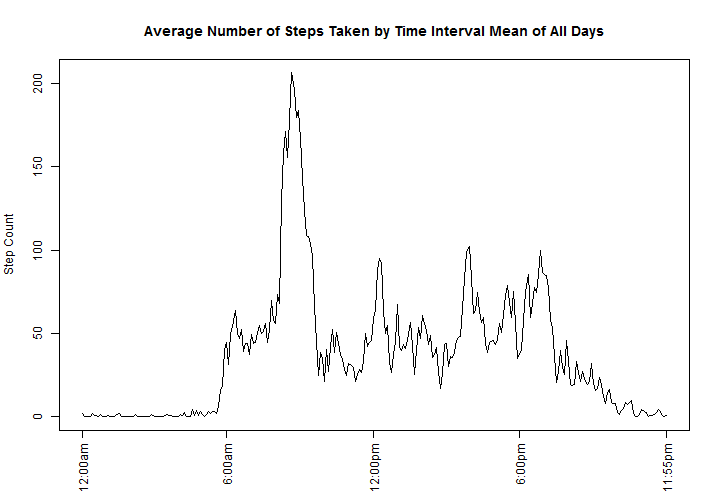
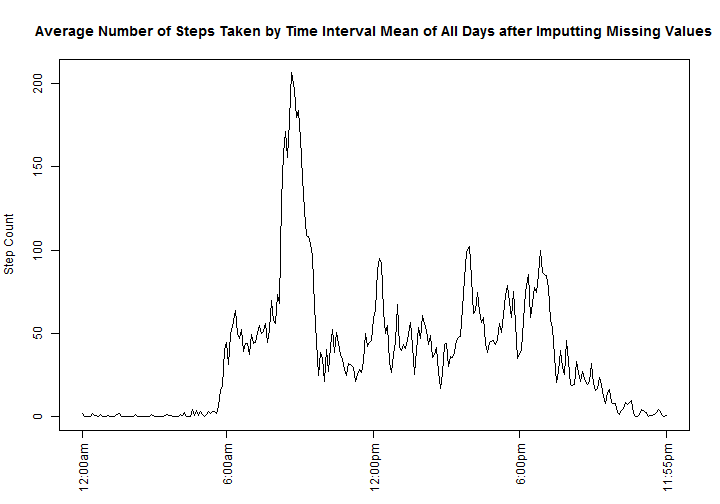
further final changes

Changed region(s): [[0.0306, 0.0298, 1.0, 0.0893]]

diff --git a/revisedfinal.html b/revisedfinal.html
@@ -219,7 +219,6 @@ ti_me&lt;-paste(ti,me,sep=&quot;&quot;,collapse=NULL)
 time&lt;-rep(ti_me,61)
 p2&lt;-cbind(p,time)
 p2$time&lt;-as.character(p2$time)
-#interval should be a factor since it isn&#39;t a continuous variable
 p2$interval&lt;-as.factor(p2$interval)
 </code></pre>
 
@@ -272,21 +271,20 @@ median(daysteps$dailysteps)
 
 <p>Looking at the data, I started by checking out the NA values in my summary.  There were 2304 NA values in the dataset.  They were all clustered together over 8 days, 288 missing readings over 8 days.  I must have forgotten to turn on my fitbit!  That was something I needed to address but I&#39;m not sure that it would affect my average since with excluded NA&#39;s was there going to be any difference.  I identified these NA dates and days of the week.  I couldn&#39;t help thinking that some days where my fitbit was on and charged I may have left it on my dresser for periods of time. These could account for my sub-12,000 step outcome.</p>
 
-<pre><code class="r">sum(p3$steps,na.rm=TRUE)# 570,608 steps
+<pre><code class="r">sum(p3$steps,na.rm=TRUE)
 </code></pre>
 
 <pre><code>## [1] 570608
 </code></pre>
 
-<pre><code class="r">summary(p3$steps)#strongly skewed data with more than half of the step counts zero
+<pre><code class="r">summary(p3$steps)
 </code></pre>
 
 <pre><code>##    Min. 1st Qu.  Median    Mean 3rd Qu.    Max.    NA&#39;s 
 ##     0.0     0.0     0.0    37.4    12.0   806.0    2304
 </code></pre>
 
-<pre><code class="r">#initial count of NAs is 2304&quot;
-with(p3,table(is.na(p3$steps), p3$date))#by date note some days have all nas
+<pre><code class="r">with(p3,table(is.na(p3$steps), p3$date))
 </code></pre>
 
 <pre><code>##        
@@ -348,22 +346,16 @@ b
 <p>The pattern was as I would have expected, a peak at about in the early part of the morning representing my twice a week jog.  This peak was on top of a variable base that looked to be a little more than 50 steps per interval and tailed off around bedtime.  Probably need to jog more often or walk more deliberately during the day.  It was interesting in that my peak time was 8:35 am with an average of 206.2 steps per five minute period.  I could jog &frac12; of a mile in that time which is 850 steps so the averaging is taking its toll.</p>
 
 <pre><code class="r">dailysteps_all&lt;-aggregate(p3$steps, by=list(p3$time), &quot;mean&quot;, na.rm=TRUE)
-aa&lt;-plot(dailysteps_all2[,2], type=&quot;l&quot;, ylab=&quot;Step Count&quot;, xlab=NA, main=&quot;Average Number of Steps Taken by Time Interval Mean of All Days&quot;, xaxt=&quot;n&quot;)
+aa&lt;-plot(dailysteps_all[,2], type=&quot;l&quot;, ylab=&quot;Step Count&quot;, xlab=NA, main=&quot;Average Number of Steps Taken by Time Interval Mean of All Days&quot;, xaxt=&quot;n&quot;)
+axis(1,at=c(1,72,144,216,288),las=2,lab = c(&quot;12:00am&quot;,&quot;6:00am&quot;,&quot;12:00pm&quot;,&quot;6:00pm&quot;,&quot;11:55pm&quot;))
 </code></pre>
 
-<pre><code>## Error: object &#39;dailysteps_all2&#39; not found
-</code></pre>
-
-<pre><code class="r">axis(1,at=c(1,72,144,216,288),las=2,lab = c(&quot;12:00am&quot;,&quot;6:00am&quot;,&quot;12:00pm&quot;,&quot;6:00pm&quot;,&quot;11:55pm&quot;))
-</code></pre>
-
-<pre><code>## Error: plot.new has not been called yet
-</code></pre>
[1 lines of base64/hex data omitted]
 
 <pre><code class="r">aa
 </code></pre>
 
-<pre><code>## Error: object &#39;aa&#39; not found
+<pre><code>## NULL
 </code></pre>
 
 <pre><code class="r">names(dailysteps_all)&lt;-c(&quot;Time_24hrFormat&quot;, &quot;Ave_Steps&quot;)
@@ -401,20 +393,7 @@ p3$steps[p3$date==&quot;2012-11-30&quot;]&lt;-dailysteps_Weekday$x
 
 <pre><code class="r">daysteps2&lt;-aggregate(p3$steps, by=list(p3$date), &quot;sum&quot;, na.rm=TRUE)
 names(daysteps2)&lt;-c(&quot;date&quot;, &quot;dailysteps&quot;)
-str(p3)
-</code></pre>
-
-<pre><code>## &#39;data.frame&#39;:    17568 obs. of  7 variables:
-##  $ date1   : Date, format: &quot;2012-10-01&quot; &quot;2012-10-01&quot; ...
-##  $ day     : Ord.factor w/ 7 levels &quot;Sun&quot;&lt;&quot;Mon&quot;&lt;&quot;Tues&quot;&lt;..: 2 2 2 2 2 2 2 2 2 2 ...
-##  $ steps   : num  2.333 0.462 0.179 0.205 0.103 ...
-##  $ date    : chr  &quot;2012-10-01&quot; &quot;2012-10-01&quot; &quot;2012-10-01&quot; &quot;2012-10-01&quot; ...
-##  $ interval: Factor w/ 288 levels &quot;0&quot;,&quot;5&quot;,&quot;10&quot;,&quot;15&quot;,..: 1 2 3 4 5 6 7 8 9 10 ...
-##  $ time    : chr  &quot;00:00:00&quot; &quot;00:05:00&quot; &quot;00:10:00&quot; &quot;00:15:00&quot; ...
-##  $ weekend : Factor w/ 2 levels &quot;Weekday&quot;,&quot;Weekend&quot;: 1 1 1 1 1 1 1 1 1 1 ...
-</code></pre>
-
-<pre><code class="r">require(ggplot2)
+require(ggplot2)
 c=ggplot(daysteps2, aes(x=date, y=dailysteps)) +geom_bar(stat=&quot;identity&quot;, fill=date)+
        xlab(&quot;Date of Observation&quot;) + ylab(&quot;Total Steps in the Day&quot;) +
        ggtitle(&quot;Imputed Total Daily Steps for All Measurement Intervals\n Monday, October 1, 2012 to Friday, November 30, 2012&quot;) +
@@ -449,11 +428,11 @@ d
 </code></pre>
 
 <pre><code class="r">dailysteps_all2&lt;-aggregate(p3$steps, by=list(p3$time), &quot;mean&quot;, na.rm=TRUE)
-e&lt;-plot(dailysteps_all2[,2], type=&quot;l&quot;, ylab=&quot;Step Count&quot;, xlab=NA, main=&quot;Average Number of Steps Taken by Time Interval Mean of All Days&quot;, xaxt=&quot;n&quot;)
+e&lt;-plot(dailysteps_all2[,2], type=&quot;l&quot;, ylab=&quot;Step Count&quot;, xlab=NA, main=&quot;Average Number of Steps Taken by Time Interval Mean of All Days after Imputting Missing Values&quot;, xaxt=&quot;n&quot;)
 axis(1,at=c(1,72,144,216,288),las=2,lab = c(&quot;12:00am&quot;,&quot;6:00am&quot;,&quot;12:00pm&quot;,&quot;6:00pm&quot;,&quot;11:55pm&quot;))
 </code></pre>
 
[2 lines of base64/hex data omitted]
 
 <pre><code class="r">dailysteps_wkend&lt;-aggregate(p3$steps[p3$weekend==&quot;Weekend&quot;], by=list(p3$time[p3$weekend==&quot;Weekend&quot;]), &quot;mean&quot;, na.rm=TRUE)
 dailysteps_Weekday&lt;-aggregate(p3$steps[p3$weekend==&quot;Weekday&quot;], by=list(p3$time[p3$weekend==&quot;Weekday&quot;]), &quot;mean&quot;, na.rm=TRUE)
@@ -477,7 +456,7 @@ k
 
[1 lines of base64/hex data omitted]
 
-<p>This plot shows the very small differences between the before and after imputation.</p>
+<p>The following plot shows the very small differences between the before and after imputation.</p>
 
 <pre><code class="r">diff_all&lt;-as.data.frame(dailysteps_all$Ave_Steps-dailysteps_all2$x)
 names(diff_all)&lt;-&quot;diffsteps&quot;
